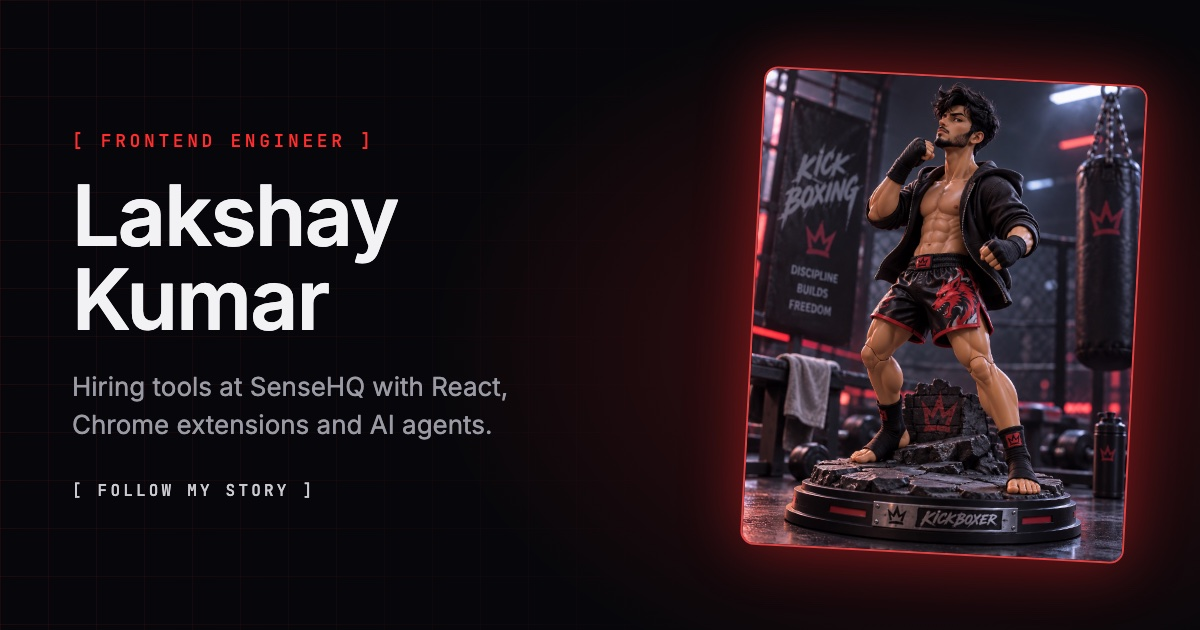
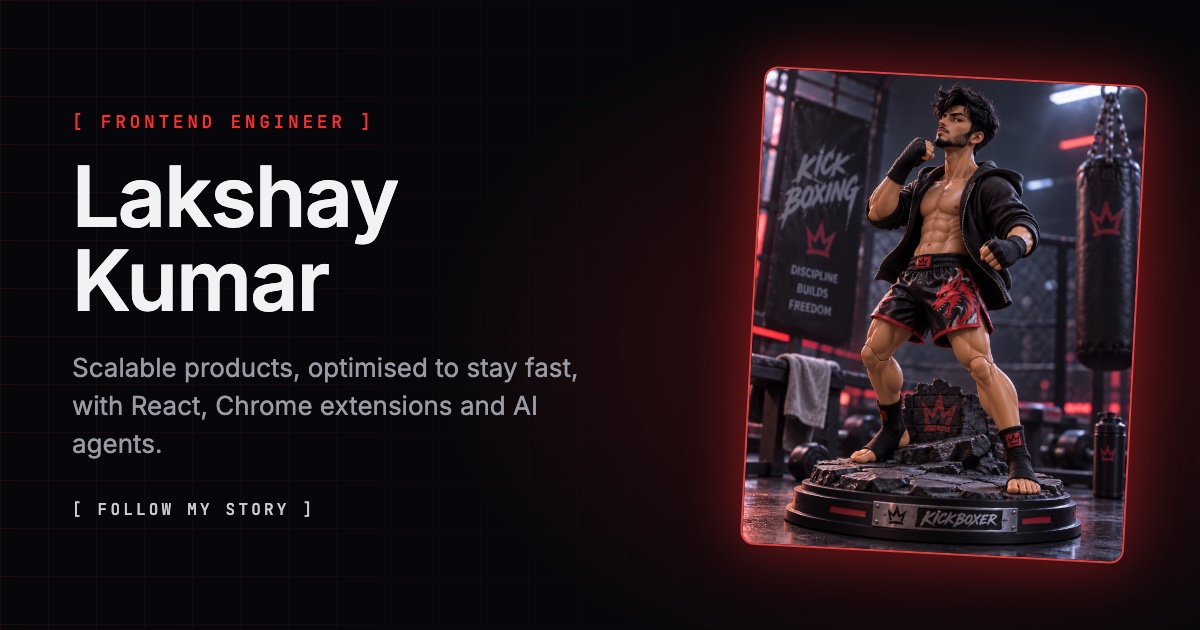
Reword intro around scalable, fast products; credit Highcharts
Drop the SenseHQ name from the intro line, page description, link
preview text and preview image. The chart wrapper card now names
Highcharts in its description and tags.

Changed region(s): [[0.0617, 0.181, 0.3392, 0.5429], [0.0617, 0.573, 0.4933, 0.7238], [0.0617, 0.754, 0.2467, 0.8143]]

diff --git a/index.html b/index.html
@@ -8,7 +8,7 @@
     <title>Lakshay Kumar · Frontend Engineer</title>
     <meta
       name="description"
-      content="Lakshay Kumar, frontend engineer. Building hiring tools at SenseHQ with React, Chrome extensions and AI agents."
+      content="Lakshay Kumar, frontend engineer. I build scalable products and optimise them to stay fast, with React, Chrome extensions and AI agents."
     />
     <link rel="canonical" href="__SITE_URL__/" />
 
@@ -18,7 +18,7 @@
     <meta property="og:title" content="Lakshay Kumar · Frontend Engineer" />
     <meta
       property="og:description"
-      content="Hiring tools at SenseHQ with React, Chrome extensions and AI agents. Scroll to follow my story."
+      content="Scalable, fast products with React, Chrome extensions and AI agents. Scroll to follow my story."
     />
     <meta property="og:image" content="__SITE_URL__/og.jpg" />
     <meta property="og:image:width" content="1200" />

diff --git a/src/story/stops.ts b/src/story/stops.ts
@@ -17,7 +17,7 @@ export const PROFILE = {
   name: 'Lakshay Kumar',
   role: 'Frontend Engineer',
   intro:
-    'I build hiring tools at SenseHQ with React, Chrome extensions and AI agents. This is how I got here.',
+    'I build scalable products and optimise them to stay fast, with React, Chrome extensions and AI agents. This is how I got here.',
 }
 
 export type StoryLink = {
@@ -130,8 +130,8 @@ export const STOPS: Stop[] = [
         label: 'Chart wrapper',
         title: 'Config-driven charts',
         description:
-          'A chart wrapper for the internal design system, so any team can drop in reusable, customisable data visualisations.',
-        tags: ['Design system', 'Data viz'],
+          'A config-driven Highcharts wrapper for the internal design system, so any team can drop in reusable, customisable charts.',
+        tags: ['Design system', 'Highcharts'],
         icon: ChartColumn,
       },
       {
